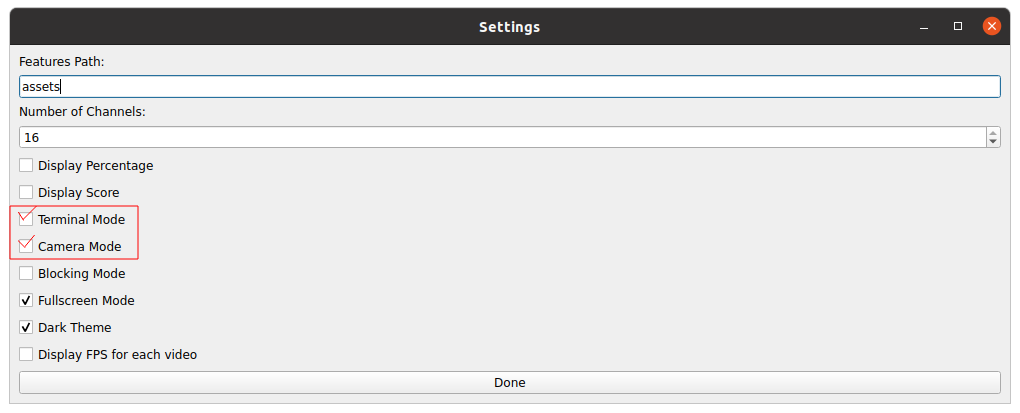
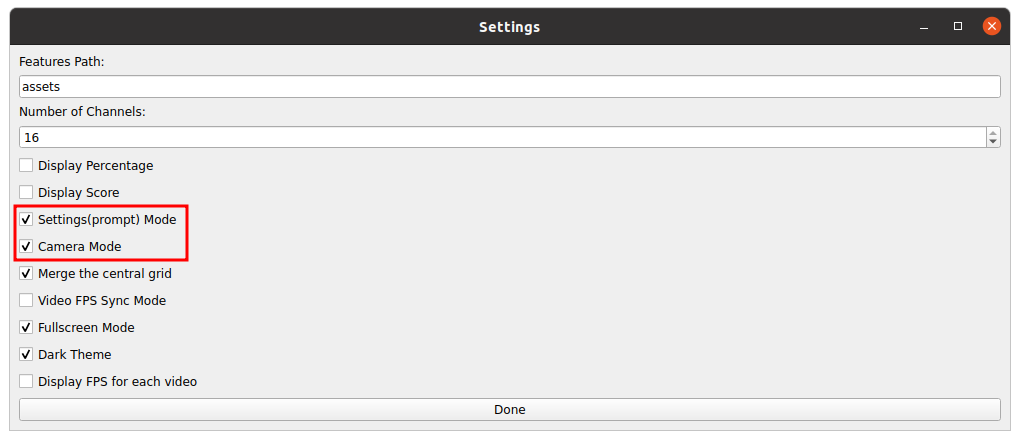
docs: update README-pypt.md and screenshot image

diff --git a/clip_demo_app_pyqt/view/settings_view.py b/clip_demo_app_pyqt/view/settings_view.py
@@ -81,7 +81,7 @@ class SettingsView(QMainWindow):
         layout.addWidget(self.show_score_checkbox)
 
         # Settings Mode checkbox
-        self.settings_mode_checkbox = QCheckBox("Settings Mode", self)
+        self.settings_mode_checkbox = QCheckBox("Settings(prompt) Mode", self)
         self.settings_mode_checkbox.setChecked(self.settings_mode)
         layout.addWidget(self.settings_mode_checkbox)
 

diff --git a/README-pyqt.md b/README-pyqt.md
@@ -192,21 +192,29 @@ python -m clip_demo_app_pyqt.dx_realtime_demo_pyqt
 
 ##### Setting options
 1. **Assets Path**:
-   - You can change the assets directory path.
+    - You can change the assets directory path.
 2. **Number of Channels (Single/Multi-channel Mode)**:
-   - You can switch from a single channel to up to 16 channels by adjusting the `Number of Channels` setting.
+    - You can switch from a single channel to up to 16 channels by adjusting the `Number of Channels` setting.
 3. **Display Percentage**:
-   - Set whether to display the percentage of the similarity value for the matching sentence.
+    - Set whether to display the percentage of the similarity value for the matching sentence.
 4. **Display Score**:
-   - Set whether to display the score of the similarity value for the matching sentence.
-5. **Terminal Mode**:
-   - Enable or disable the input terminal UI, where you can add, delete, or clear all sentences.
+    - Set whether to display the score of the similarity value for the matching sentence.
+5. **Settings Mode**:
+    - Enable or disable the input Settings UI, where you can add, delete, or clear all sentences.
 6. **Camera Mode**:
-   - **Single-channel Mode**: Enable the camera mode to replace the video with the one from the device-connected camera.
-   - **Multi-channel Mode**: Enable the camera mode to add the video from the device-connected camera to the channels.
-7. **Fullscreen Mode**:
-   - Set the app to fullscreen mode or windowed mode.
-8. **Dark Theme**:
-   - Set whether to apply the dark theme.
-9. **Display FPS for each video**:
-   - In Multi-channel mode, you can set whether to display the current FPS for each channel.
+    - **Single-channel Mode**: Enable the camera mode to replace the video with the one from the device-connected camera.
+    - **Multi-channel Mode**: Enable the camera mode to add the video from the device-connected camera to the channels.
+7. **Merge the central grid**:
+    - In video grid screens such as 3x3 and 4x4, merge multiple grids in the center into one larger display.
+    - Previous videos playing in the merged grid are redistributed to the channels in other grids.
+    - **Camera Mode: ON**: The camera video plays in the merged central grid.
+    - **Camera Mode: OFF**: All sample videos (16 total) are played in a loop in the merged central grid.
+8. **Video FPS Sync Mode**:
+    - **ON**: Check the original fps information of the video and force the input to be processed at the original fps speed of the video.
+    - **OFF**: Process video input at the maximum speed available on the hardware. (However, if Camera Mode is ON, input is processed at the original video fps speed.)
+9. **Fullscreen Mode**:
+    - Set the app to fullscreen mode or windowed mode.
+10. **Dark Theme**:
+    - Set whether to apply the dark theme.
+11. **Display FPS for each video**:
+    - In Multi-channel mode, you can set whether to display the current FPS for each channel.

diff --git a/clip_demo_app_pyqt/docs/source/docs/6_how_to_run_realtime_prompt_demo.md b/clip_demo_app_pyqt/docs/source/docs/6_how_to_run_realtime_prompt_demo.md
@@ -6,7 +6,7 @@ Connect the webcam to the device.
 
 ## Steps
 1. Run `./run_pia_demo.sh` and select options 2-3.  
-2. In the `Settings` window, ensure the checkboxes for `Terminal Mode` and `Camera Mode` are checked, then click the `Done` button.
+2. In the `Settings` window, ensure the checkboxes for `Settings(prompt) Mode` and `Camera Mode` are checked, then click the `Done` button.
     - ![](../img/6_settings_view_realtime_prompt.png)
 3. Confirm the webcam video in the last channel.  
 4. Click the `Add button` in the right(Settings) UI panel 

diff --git a/clip_demo_app_pyqt/docs/source/index.md b/clip_demo_app_pyqt/docs/source/index.md
@@ -20,5 +20,5 @@ The Clip Demo App calculates the similarity score between the image embedding re
     - Detects similarities between 2 to 16-channel videos (images) and registered sentences (text) and displays alarms accordingly.
 - Realtime (Camera Mode) Demo
     - Supports real-time camera input for video.
-- Input Terminal (Prompt Mode) Demo
+- Settings (Prompt Mode) Demo
     - Supports the addition and deletion of real-time sentence inputs.
